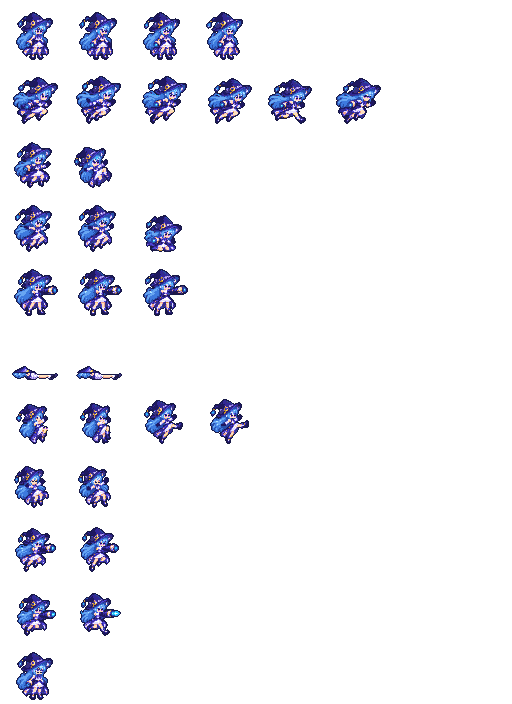
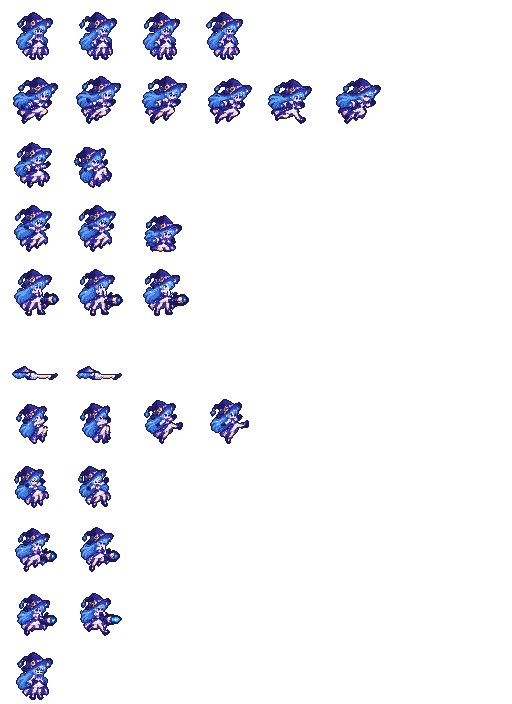
test.62: pixel Umine behind UMINE_PX flag (off); old sprites restored

diff --git a/preview.html b/preview.html
@@ -141,7 +141,7 @@ body.title-art #screen,body.title-art #hint{visibility:hidden}body.title-art #bL
 
 'use strict';
 // Version label (title screen + footer). Bump on every release; see README.
-const GAME_VERSION = '2.0.0-test.61';
+const GAME_VERSION = '2.0.0-test.62';
 // =====================================================================
 //  ROCKSIDE  -  original run-and-gun prototype
 //  All gameplay tuning lives in CONFIG. Units: pixels and frames @60Hz.
@@ -10152,13 +10152,15 @@ titleArtLoad(); // test.61: start the title art immediately (it is on the boot a
 //  Old painted sheets (umine-sheet.jpeg / umine-walk.png / umine-mansion-actions.png) remain the fallback, and the
 //  dark style keeps the old dark sheets until a dark pixel version is approved.
 // =====================================================================
+// test.62: the user prefers the previous sprites — pixel Umine is OFF by default (set UMINE_PX=true to try it again).
+const UMINE_PX=false;
 const UPX={img:null,meta:null,flip:null};
-(function(){if(typeof Image!=='function')return;const im=new Image();im.onload=()=>{UPX.img=im;upxBuildFlip();};im.src='assets/umine_px.png';
+(function(){if(!UMINE_PX||typeof Image!=='function')return;const im=new Image();im.onload=()=>{UPX.img=im;upxBuildFlip();};im.src='assets/umine_px.png';
  if(typeof fetch==='function')fetch('assets/umine_px.json').then(r=>r.ok?r.json():null).then(j=>{if(j&&j.anims)UPX.meta=j;}).catch(()=>{});})();
 function upxBuildFlip(){if(typeof mkCanvas!=='function')return;const im=UPX.img,c=mkCanvas(im.width,im.height),p=c.getContext('2d');if(!p||!p.scale)return;
  // mirror each 64px cell in place so frame coordinates stay the same
  p.imageSmoothingEnabled=false;const cw=64,cols=Math.floor(im.width/cw);for(let i=0;i<cols;i++){p.save();p.translate((i+1)*cw,0);p.scale(-1,1);p.drawImage(im,i*cw,0,cw,im.height,0,0,cw,im.height);p.restore();}UPX.flip=c;}
-function upxReady(){return !!(UPX.img&&UPX.meta);}
+function upxReady(){return UMINE_PX&&!!(UPX.img&&UPX.meta);}
 // draw anim frame with the soles on 'feet' and the body centre on x; face<0 mirrors
 function upxDraw(anim,fi,x,feet,face){const A=UPX.meta.anims[anim];if(!A)return false;const [cw,ch]=UPX.meta.cell||[64,64],[fx,fy]=UPX.meta.feet||[32,60];
  const col=(A.startFrame||0)+fi,src=face<0&&UPX.flip?UPX.flip:UPX.img,sx=col*cw,dx=Math.round(x)-(face<0?cw-fx:fx),dy=Math.round(feet)-fy;

diff --git a/src/04t_uminepx.js b/src/04t_uminepx.js
@@ -4,13 +4,15 @@
 //  Old painted sheets (umine-sheet.jpeg / umine-walk.png / umine-mansion-actions.png) remain the fallback, and the
 //  dark style keeps the old dark sheets until a dark pixel version is approved.
 // =====================================================================
+// test.62: the user prefers the previous sprites — pixel Umine is OFF by default (set UMINE_PX=true to try it again).
+const UMINE_PX=false;
 const UPX={img:null,meta:null,flip:null};
-(function(){if(typeof Image!=='function')return;const im=new Image();im.onload=()=>{UPX.img=im;upxBuildFlip();};im.src='assets/umine_px.png';
+(function(){if(!UMINE_PX||typeof Image!=='function')return;const im=new Image();im.onload=()=>{UPX.img=im;upxBuildFlip();};im.src='assets/umine_px.png';
  if(typeof fetch==='function')fetch('assets/umine_px.json').then(r=>r.ok?r.json():null).then(j=>{if(j&&j.anims)UPX.meta=j;}).catch(()=>{});})();
 function upxBuildFlip(){if(typeof mkCanvas!=='function')return;const im=UPX.img,c=mkCanvas(im.width,im.height),p=c.getContext('2d');if(!p||!p.scale)return;
  // mirror each 64px cell in place so frame coordinates stay the same
  p.imageSmoothingEnabled=false;const cw=64,cols=Math.floor(im.width/cw);for(let i=0;i<cols;i++){p.save();p.translate((i+1)*cw,0);p.scale(-1,1);p.drawImage(im,i*cw,0,cw,im.height,0,0,cw,im.height);p.restore();}UPX.flip=c;}
-function upxReady(){return !!(UPX.img&&UPX.meta);}
+function upxReady(){return UMINE_PX&&!!(UPX.img&&UPX.meta);}
 // draw anim frame with the soles on 'feet' and the body centre on x; face<0 mirrors
 function upxDraw(anim,fi,x,feet,face){const A=UPX.meta.anims[anim];if(!A)return false;const [cw,ch]=UPX.meta.cell||[64,64],[fx,fy]=UPX.meta.feet||[32,60];
  const col=(A.startFrame||0)+fi,src=face<0&&UPX.flip?UPX.flip:UPX.img,sx=col*cw,dx=Math.round(x)-(face<0?cw-fx:fx),dy=Math.round(feet)-fy;

diff --git a/src/01_head.html b/src/01_head.html
@@ -141,7 +141,7 @@ body.title-art #screen,body.title-art #hint{visibility:hidden}body.title-art #bL
 
 'use strict';
 // Version label (title screen + footer). Bump on every release; see README.
-const GAME_VERSION = '2.0.0-test.61';
+const GAME_VERSION = '2.0.0-test.62';
 // =====================================================================
 //  ROCKSIDE  -  original run-and-gun prototype
 //  All gameplay tuning lives in CONFIG. Units: pixels and frames @60Hz.
